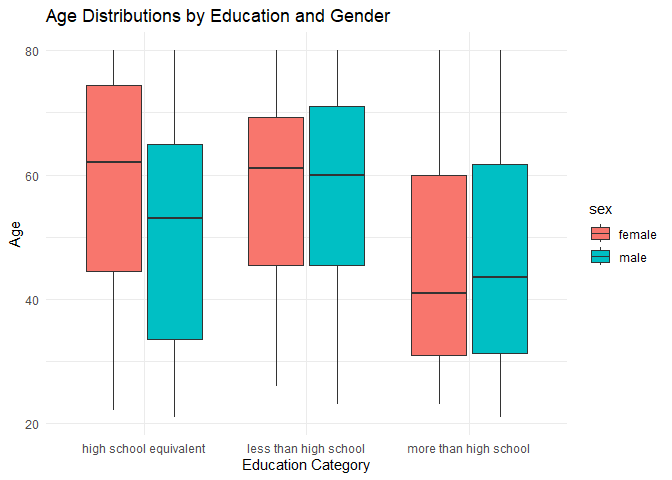
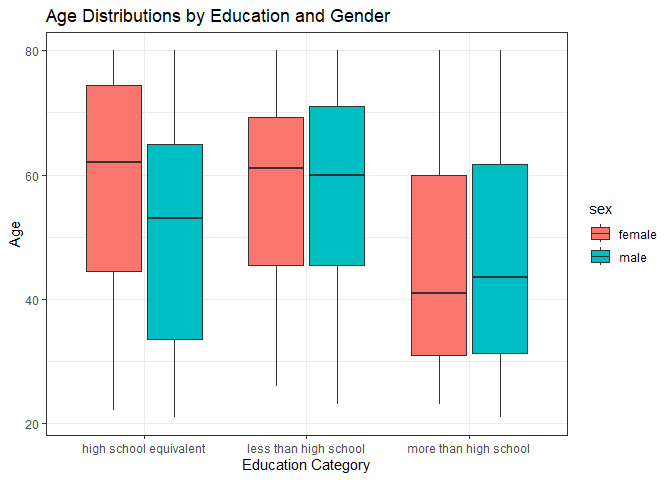
added explantation to the first graph and created my last graph and explained it

diff --git a/p8105_hw3_bp2678.md b/p8105_hw3_bp2678.md
@@ -123,7 +123,7 @@ ggplot(Excellent_only, aes(x = year, y = avg_data_value, group = States, color =
   labs(title = "Average Data Value Over Time by State",
        x = "Year",
        y = "Average Data Value") +
-  theme_minimal()
+  theme_bw()
 ```
 
 ![](p8105_hw3_bp2678_files/figure-gfm/unnamed-chunk-6-1.png)<!-- -->
@@ -140,7 +140,7 @@ ggplot(NewYork_only, aes(x = response, y = data_value)) +
   labs(title = "Distribution of Data Value in NY State by Response",
        x = "Response",
        y = "Data Value") +
-  theme_minimal()
+  theme_bw()
 ```
 
 ![](p8105_hw3_bp2678_files/figure-gfm/unnamed-chunk-7-1.png)<!-- -->
@@ -226,7 +226,7 @@ age_distribution_plot <- ggplot(accel_covar, aes(x = education, y = age, fill = 
   labs(title = "Age Distributions by Education and Gender",
        x = "Education Category",
        y = "Age") +
-  theme_minimal()
+  theme_bw()
 
 print(age_distribution_plot)
 ```
@@ -269,3 +269,35 @@ accel_covar |>
     ## `geom_smooth()` using method = 'loess' and formula = 'y ~ x'
 
 ![](p8105_hw3_bp2678_files/figure-gfm/unnamed-chunk-13-1.png)<!-- -->
+
+In all three graphs there is a similar tend that as increases the total
+acitvity seems to decrease. In high school equivalent it seems that both
+genders increase in their total acitvity until they hit around the age
+of 40 and they start to decrease. Females tend to have a greater total
+activity than males in less than high school graph it seems like the
+total activitye for male and female do decrease as age increase but then
+as the age hits around late 50’s theres a small spike of increase of
+total activity between both gender. Addtionally it looks like female had
+a higher total activity at first but as age increase males tend to have
+more of total activity. In more than high school the graph looks like a
+geneeral decrease of total acitvity as age increases and that females
+tend to have more.
+
+``` r
+accel_covar |>
+   pivot_longer(
+    min1:min1440,
+    names_to = "minute_counts",
+    values_to = "minutes") |> 
+  ggplot(aes(x = minute_counts, y = minutes, group = sex, color = sex)) + 
+  geom_point(alpha = 0.5) + 
+  facet_wrap(. ~ education) +
+  theme_bw()
+```
+
+![](p8105_hw3_bp2678_files/figure-gfm/unnamed-chunk-14-1.png)<!-- -->
+
+It seems that as high school increases so does the minutues. Adtionally
+males that are in more than high school have very high minutes compared
+to everyone else in the graph to the point where they look like
+outliers.
